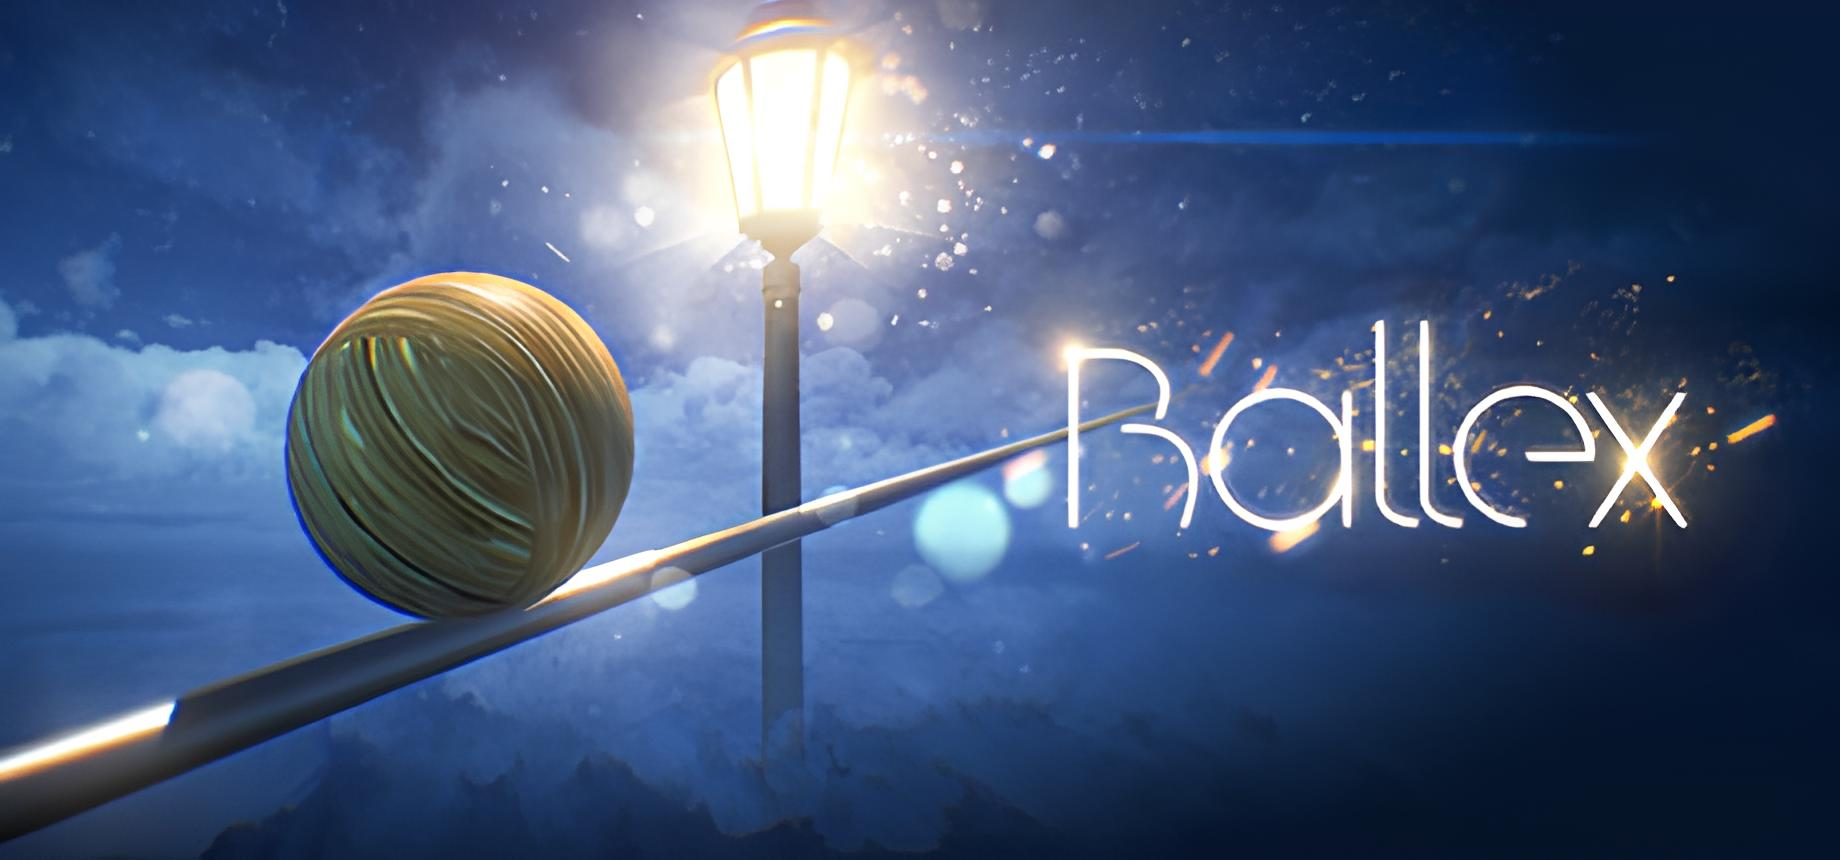
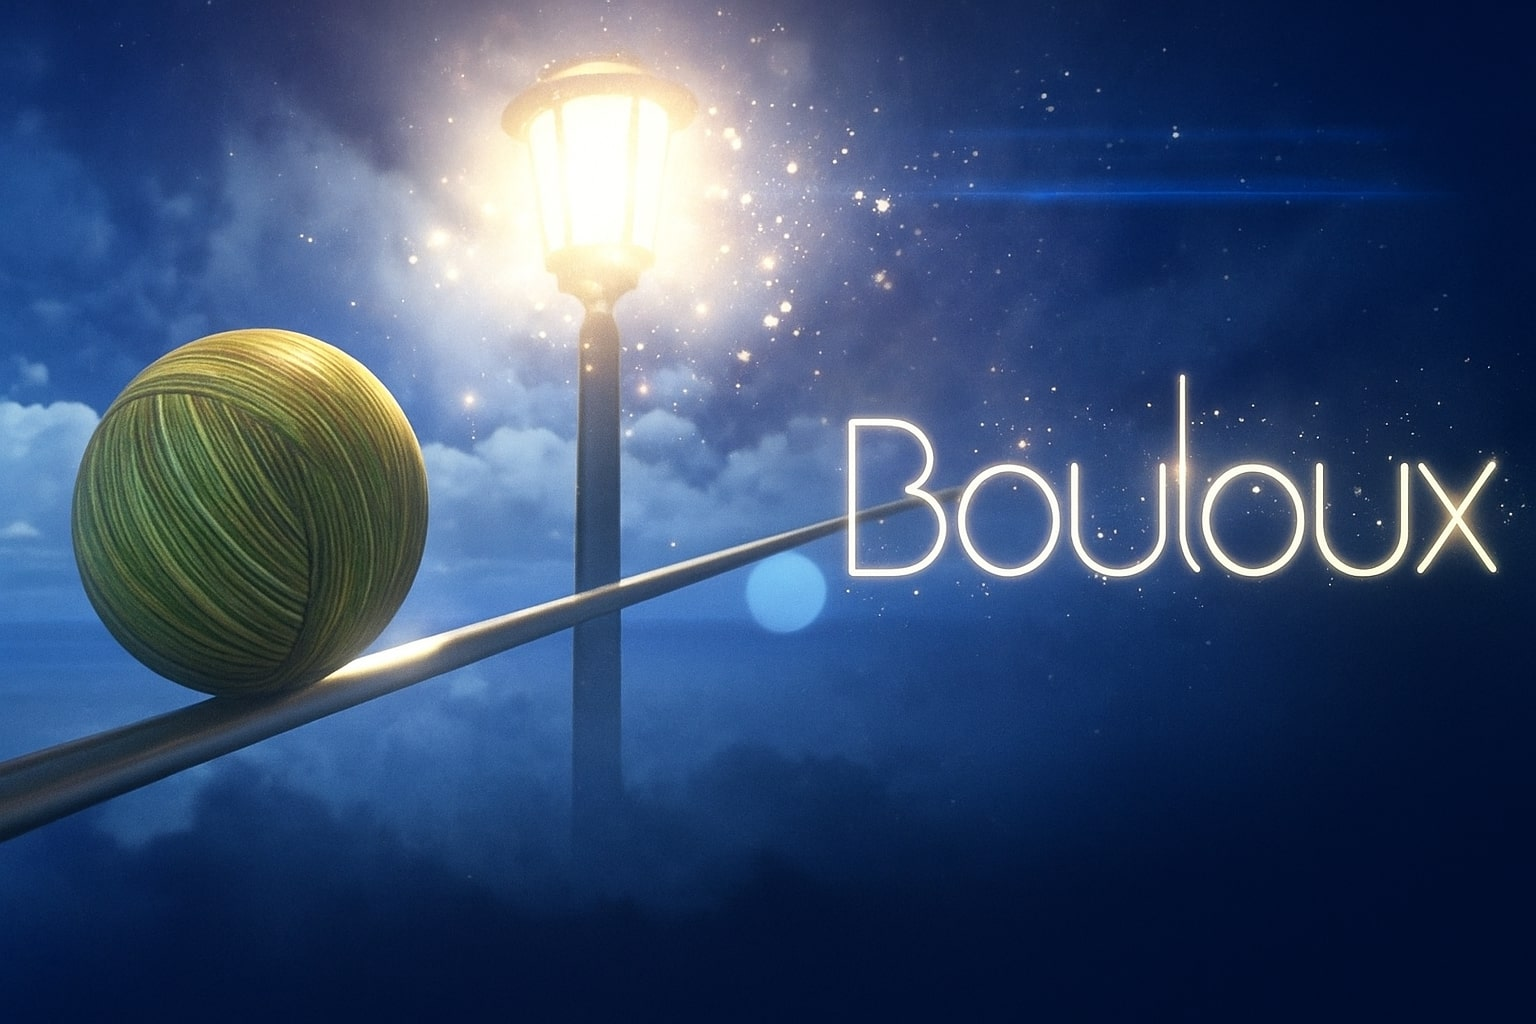
changement bouloux

diff --git a/index.html b/index.html
@@ -572,7 +572,7 @@
     <div class="modal-dialog">
       <div class="modal-content bg-dark text-light">
         <div class="modal-header">
-          <h5 class="modal-title" id="projectModalLabel4">Ballex</h5>
+          <h5 class="modal-title" id="projectModalLabel4">Bouloux</h5>
           <button type="button" class="btn-close btn-close-white" data-bs-dismiss="modal" aria-label="Close"></button>
         </div>
         <div class="modal-body">
@@ -593,7 +593,7 @@
             <p><strong>Catégorie:</strong> Unity</p>
             <p><strong>Utilité :</strong> Développeur Gameplay</p>
             <p><strong>Durée :</strong> 1 mois</p>
-            <p>Ballex est un jeu de puzzle-action en 3D avec des graphismes esthétiquement plaisants et un gameplay complexe. Vous devrez contrôler une balle capable de changer d'état physique au fil des niveaux.</p>
+            <p>Bouloux est un jeu de puzzle-action en 3D avec des graphismes esthétiquement plaisants et un gameplay complexe. Vous devrez contrôler une balle capable de changer d'état physique au fil des niveaux.</p>
           </div>
         </div>
         <div class="modal-footer">
